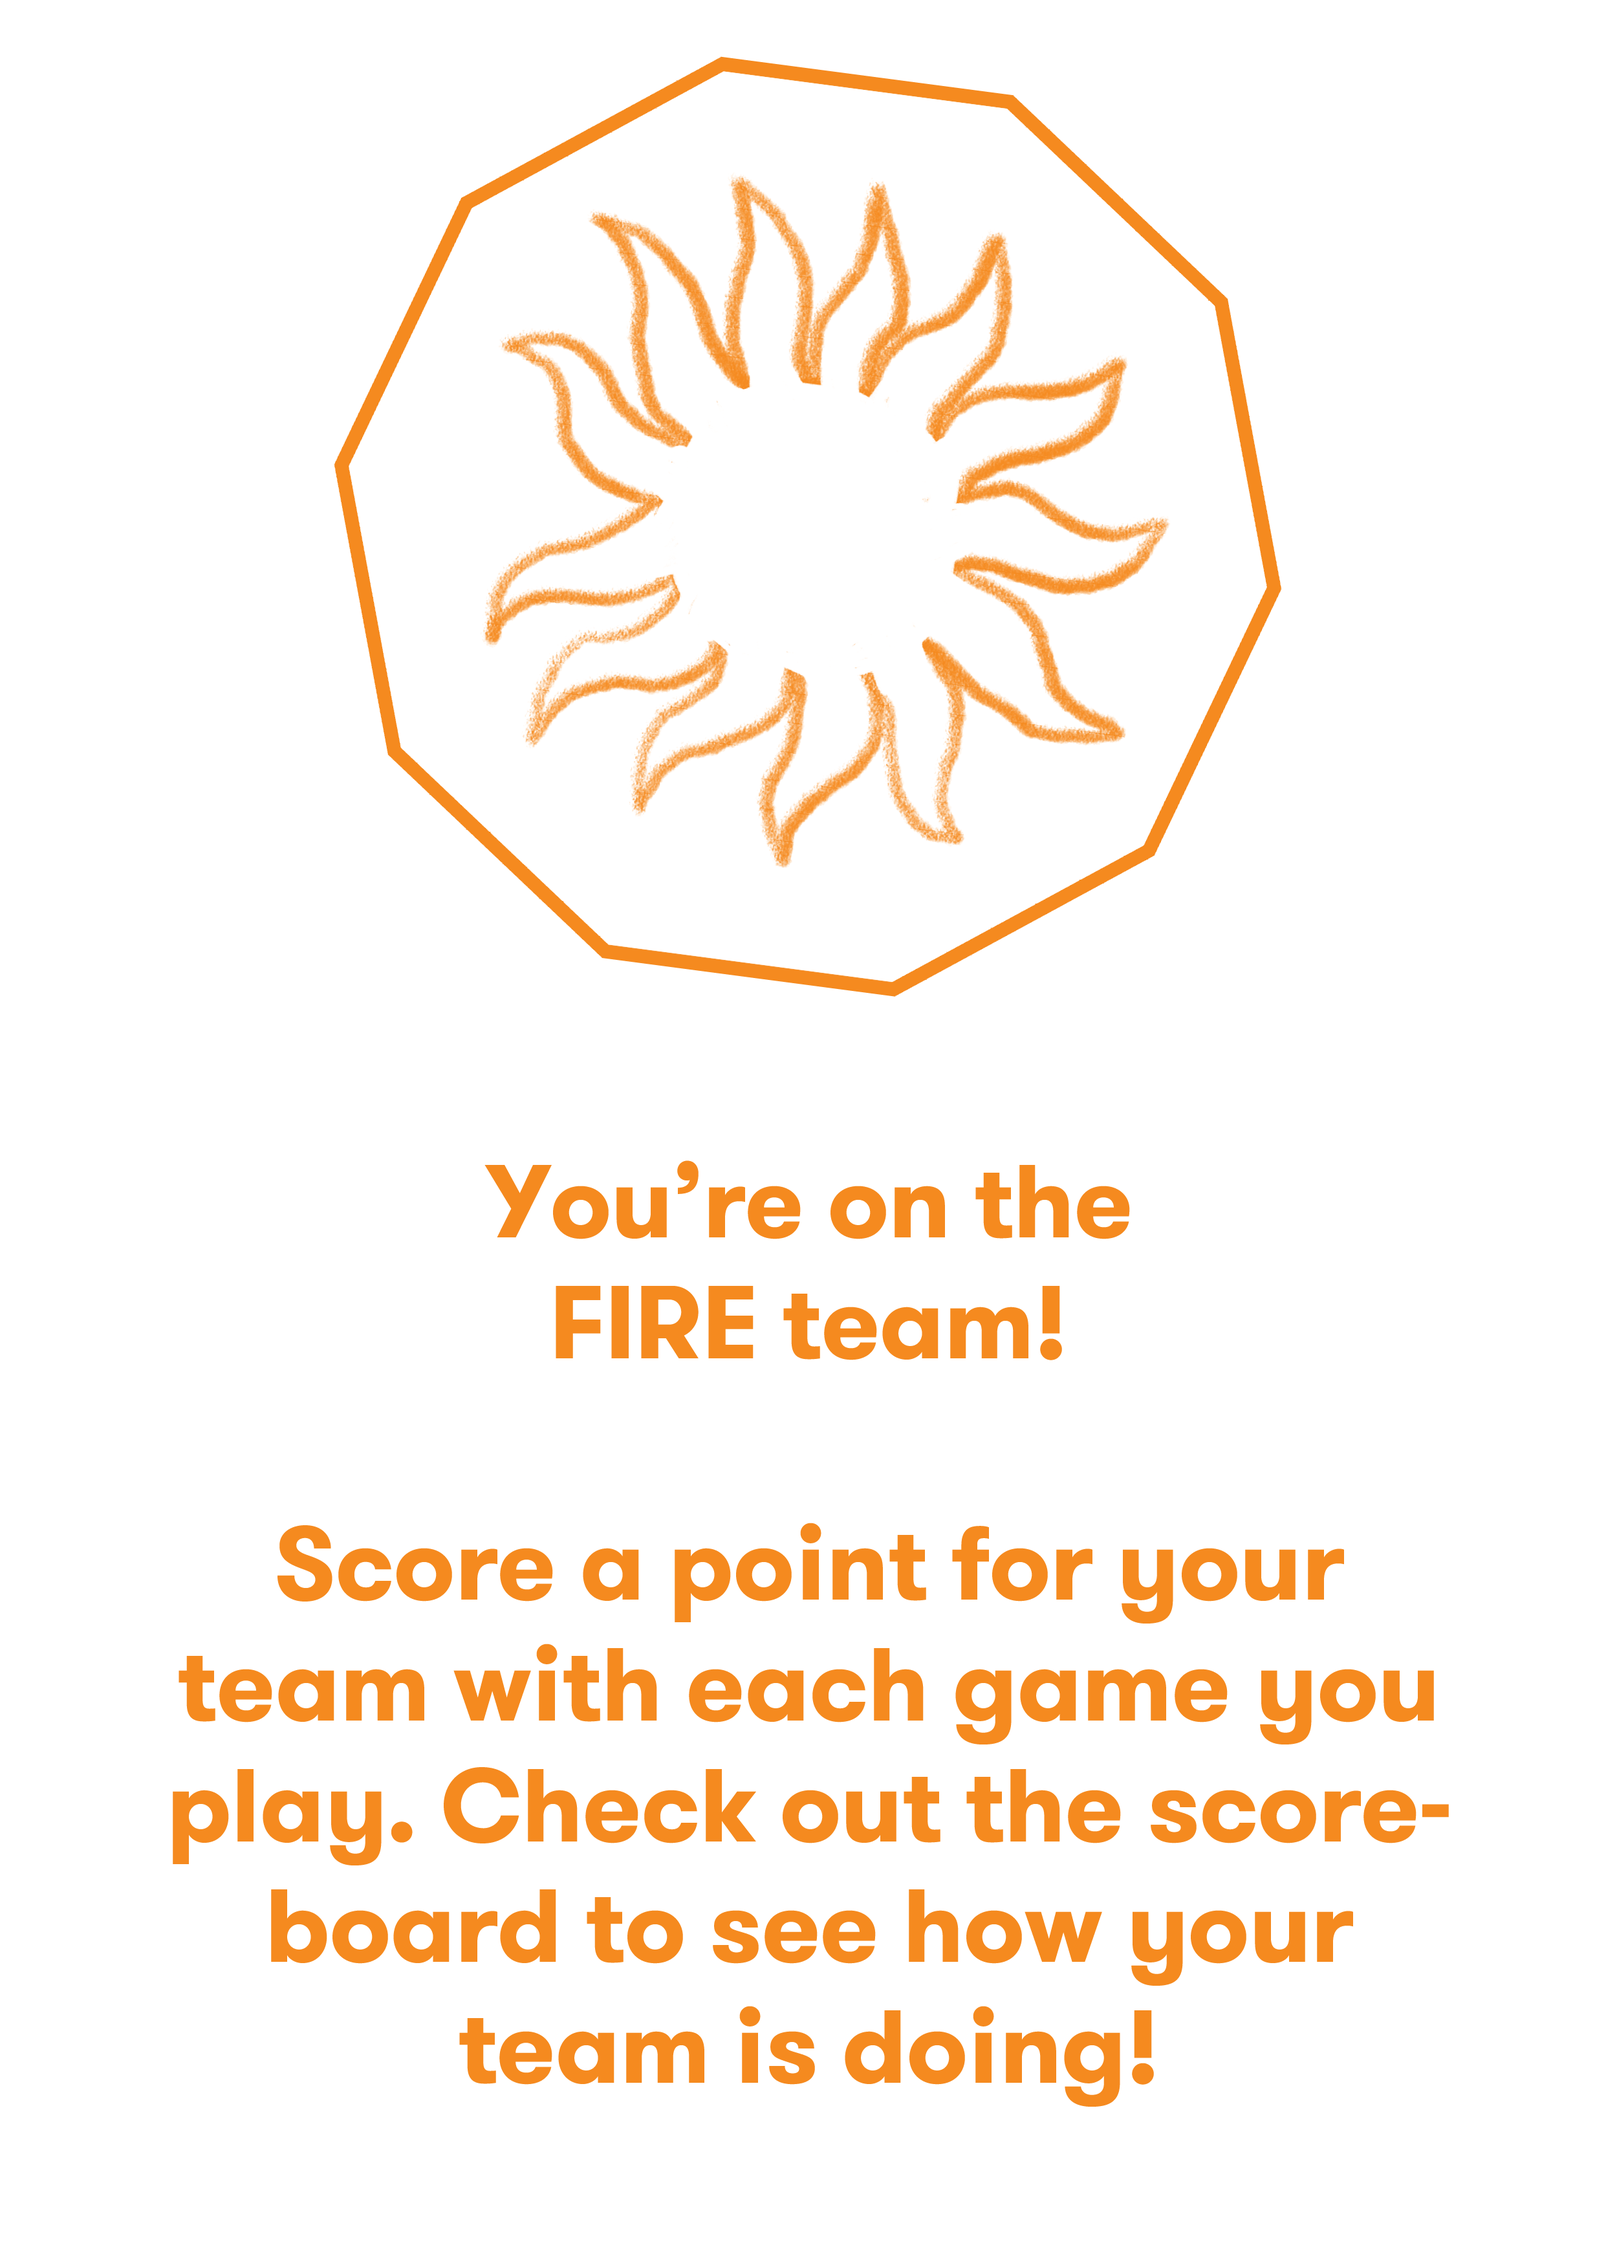
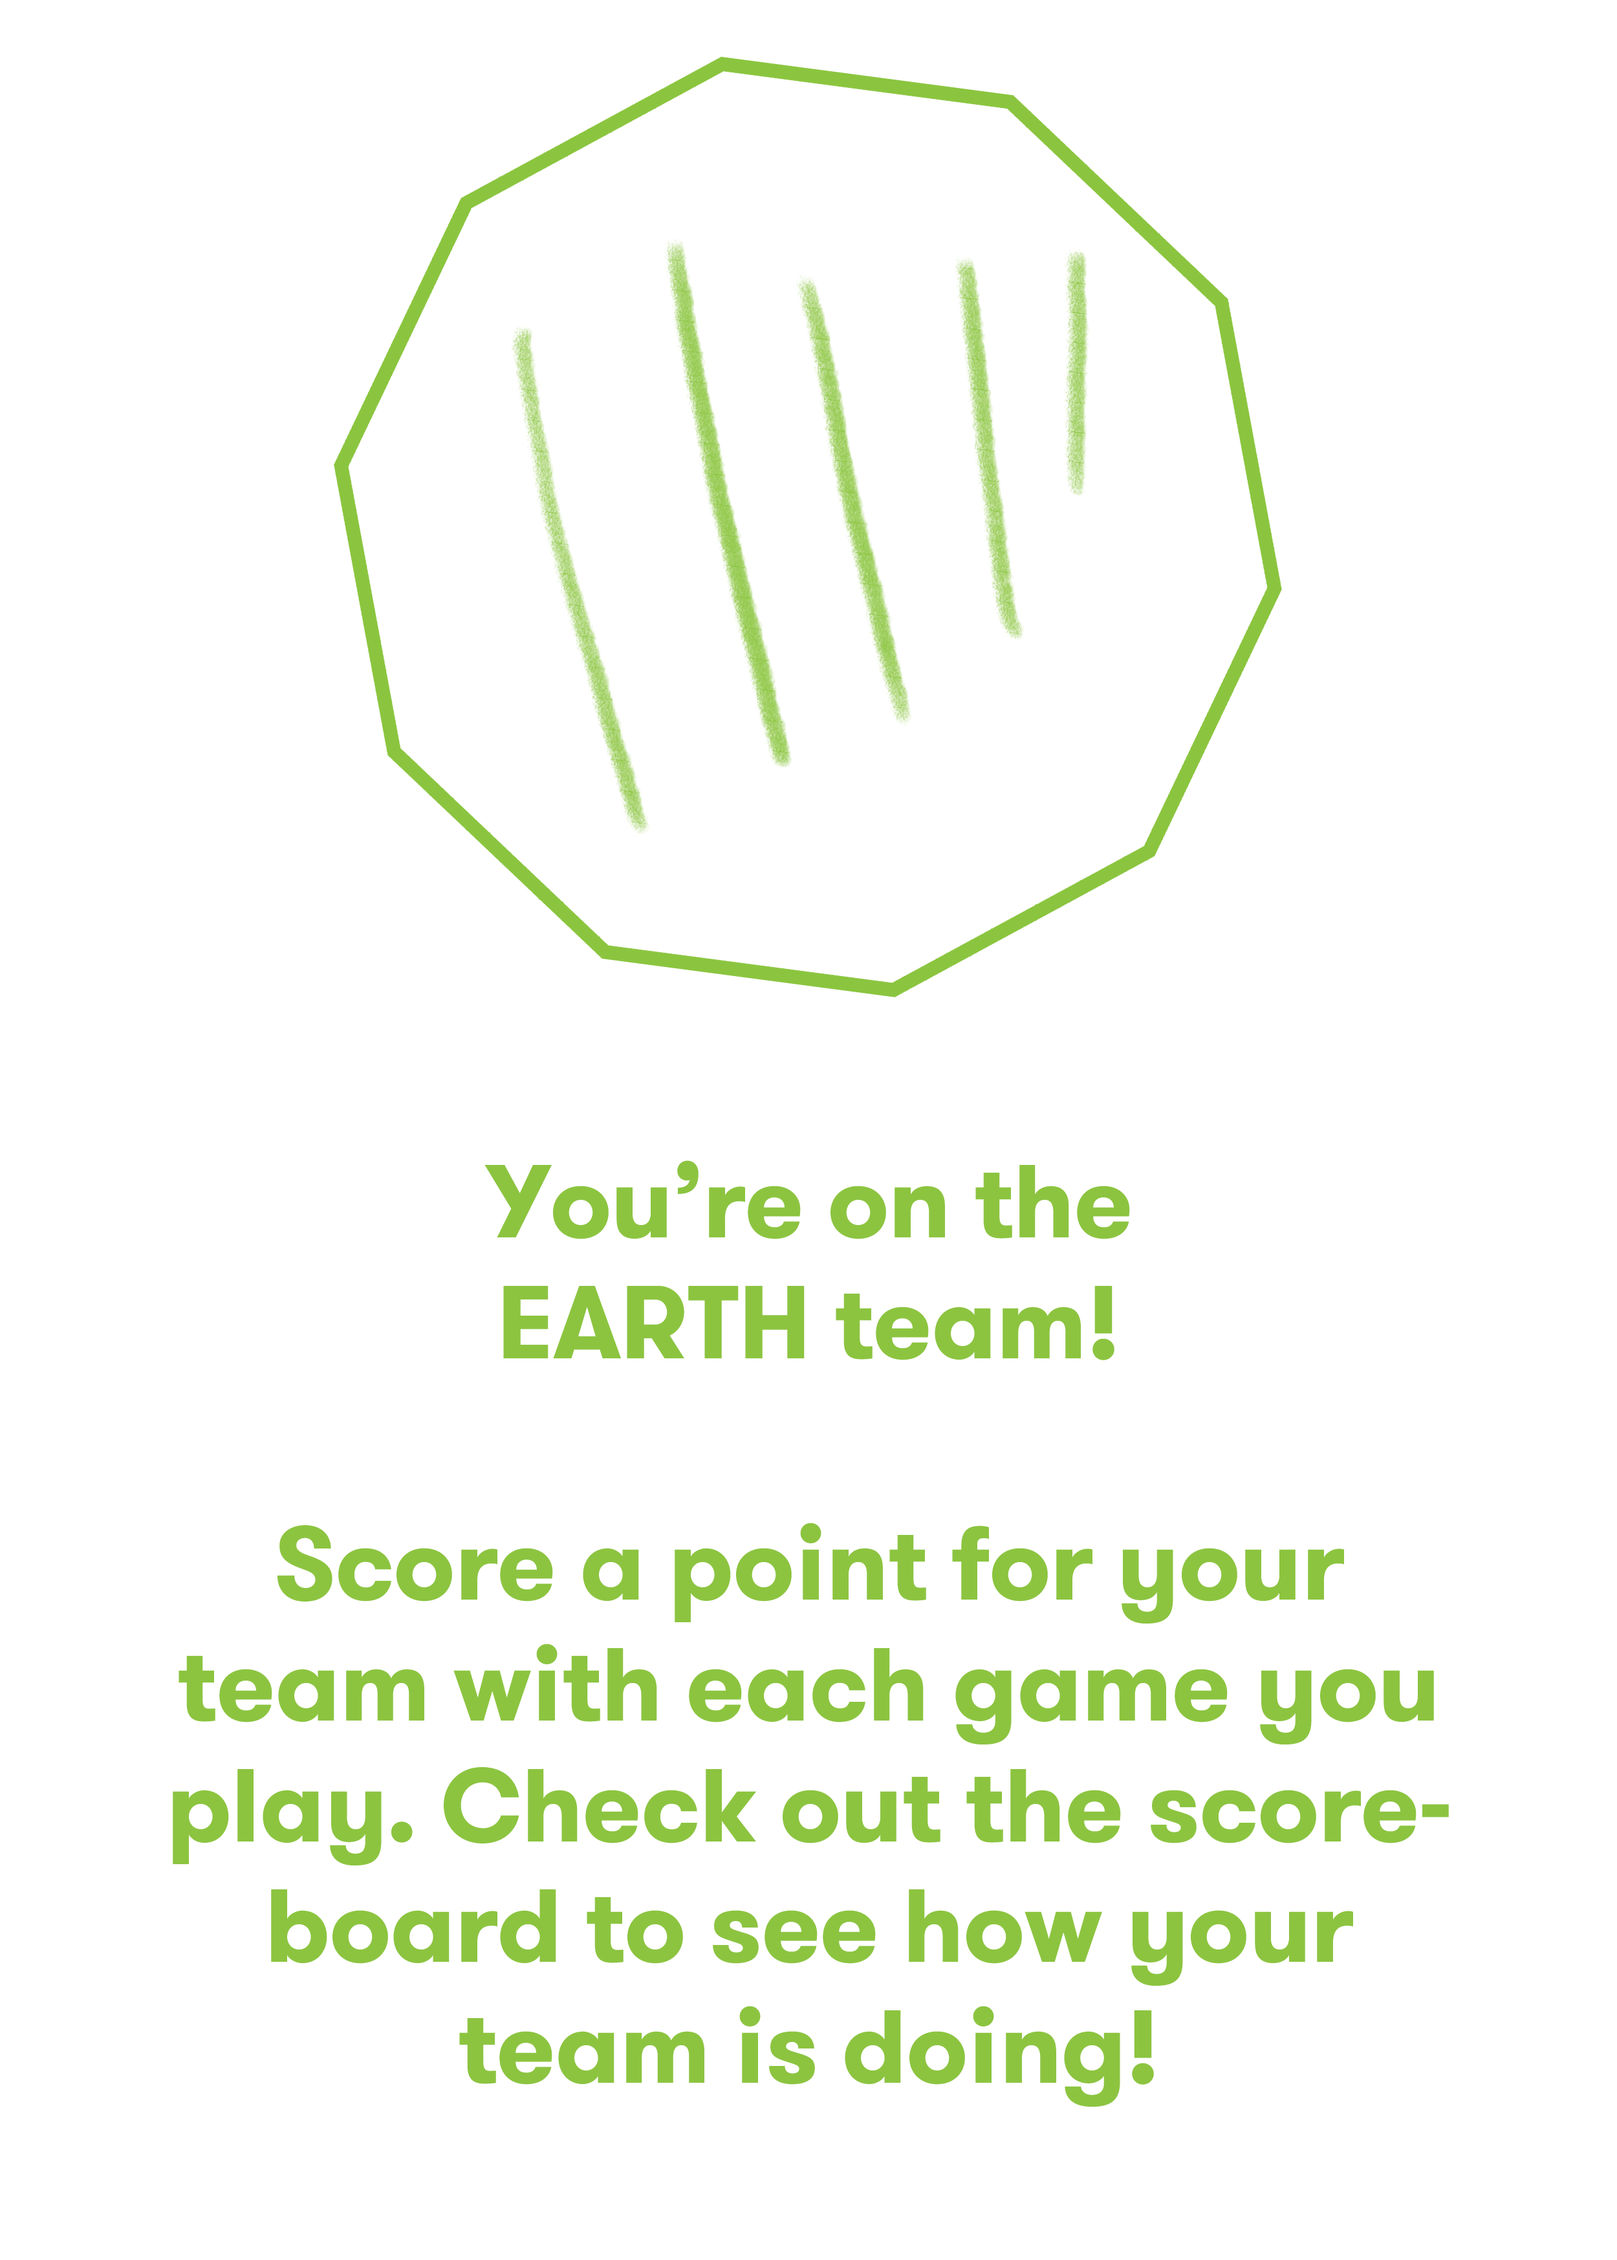
Fixed Team Assignment problems

diff --git a/views/js/index.js b/views/js/index.js
@@ -489,6 +489,9 @@ function resizeImages(){
 
       // Homescreen
       $('.avatar-image').css('height', newHeight-20+'px');
+
+      //Team Singup Page
+      $('.confirmation-sign-up .container').css('height', $(window).height()+'px');
 }
 
 function resizeAvatar(){
@@ -523,6 +526,7 @@ $(window).load(function(){
       //shareMenu.onLoadCreateFileIfItDoesNotExsist();
 
       generateAvatar();
+      updateStatsAndScores();
 
       // Message for Window Loaded
       resizeImages();
@@ -891,7 +895,7 @@ var signUp = {
                     userName: $('input.username').val(),
                     email: $('input.email-address').val().toLowerCase(),
                     avatar: $('.regenerate-avatar-image').attr('data-avatar-id')+'.png', // This could be an object... with key values that are descriptive.. head, body ect... might be overkill
-                    team: 1,
+                    team: $('.confirmation-sign-up .container').attr('data-team-id'),
                     //tasksPlayed: 'Array',
                     //maybe WaitTime:
 
@@ -916,13 +920,45 @@ var signUp = {
           // Slide up Main menu / Home
 
      },
+     setAndWriteTeamInfo(teamID){
+        // Add image to 
+        var teamContainer = $('.confirmation-sign-up .container');
+        teamContainer.attr('data-team-id',teamID);
+        teamContainer.css('background-image' , 'url(assets/images/team/'+teamID+'.png)');
+        teamContainer.css('background-position' , 'center center');
+        teamContainer.css('background-size' , 'contain');
+        teamContainer.css('background-repeat' , 'no-repeat');
+
+        // HomeScreen
+        $('.stats .top .team-id').html('<img style="height:30px;margin-top:-8px;margin-bottom:4px;" src="assets/images/teamicons/'+teamID+'.png">')
+
+        var teamText = '';
+        if(teamID == 1){
+          teamText = 'Water<br>Team';
+        } else if(teamID == 2) {
+          teamText = 'Air<br>Team';
+        } else if(teamID == 3) {
+          teamText = 'Earth<br>Team';
+        } else if(teamID == 4) {
+          teamText = 'Fire<br>Team';
+        }
+
+        $('.stats .bottom .team-id').html(teamText)
+
+
+
+     },
      checkTeamsAndSetTeam:function(){
-      $.get("/get-team", function(data){
-           console.log(data);
-           if(data.isEmpty()){
-              $()
-           }
-      });
+      $.ajax({
+        type: "GET",
+        url: "get-team",
+        dataType: 'json'
+
+      }).done(function(data) {
+        //console.log('saved'); 
+        signUp.setAndWriteTeamInfo(data._id);
+    });
+     
      },
      preFillInUserName:function(){
       $('.form-control.username').val(generateUsername());
@@ -946,6 +982,7 @@ var signUp = {
                     case $('#carousel-sign-up .item.email-sign-up').hasClass('active'):
                          signUp.databaseHasEmail();
                          signUp.preFillInUserName();
+                         signUp.checkTeamsAndSetTeam();
                          if(!signUp.usernameTextFieldIsFilled){
                               signUp.disableContinueButton();
                          }
@@ -1648,13 +1685,48 @@ writeSocialMediaLinks:function(){
     $('.menu-share .container #email').attr('href' , emailHref);
     $('.menu-share .container #save-button').attr('href' , permalinkSave);
     $('.menu-share .container #save-button').attr('download' , getUser.userName);
+
+    $('.menu-share .container #save-button-instagram').attr('href' , permalinkSave);
+    $('.menu-share .container #save-button-instagram').attr('download' , getUser.userName);
     console.log('SOCIALK MEDIA')
     }
   },
 
 }
 
+function updateStatsAndScores(){
+  var getUser = store.get('user');
+  if(getUser){
+    // Team ID 
+    var teamID = getUser.team;
+    signUp.setAndWriteTeamInfo(teamID);
 
+    // My Score
+    var myScore = getUser.score;
+    updateMyScore(myScore);
+
+    // Locations Visited 
+    var locationsVisited = getUser.locationsVisited.length;
+    updateLocationsVisited(locationsVisited);
+
+    //Team score....
+    //var locationsVisited = getUser.locationsVisited.length;
+    //updateLocationsVisited(locationsVisited);
+
+
+
+
+
+  }
+}
+function updateLocationsVisited(numberOfLocations){
+    $('.stats .top .locations-visited').html(numberOfLocations+'/6');
+    //$('.stats .bottom .my-score').html(teamText);
+}
+function updateMyScore(myScore){
+    $('.stats .top .my-score').html(myScore);
+    //$('.stats .bottom .my-score').html(teamText);
+}
 
 function generateUsername(){
 //way of being, things, action

diff --git a/database.js b/database.js
@@ -176,6 +176,11 @@ database.getSortedUsers = function(limitNum, sortBy, callback){
 
 }
 
+Array.prototype.hasMin = function(attrib) {
+    return this.reduce(function(prev, curr){ 
+        return prev[attrib] < curr[attrib] ? prev : curr; 
+    });
+ }
 
 database.checkTeamsAndSetTeam = function(callback){
   this.Users.aggregate(
@@ -185,7 +190,11 @@ database.checkTeamsAndSetTeam = function(callback){
     function (err, results) {
       if (err) return handleError(err);
       console.log(results);
-      callback(results);
+
+      var temp = results.hasMin('total');
+      console.log(temp);
+      return callback(null, temp);
+      //callback(JSON.stringify(results));
     });
 }
 

diff --git a/app.js b/app.js
@@ -200,6 +200,7 @@ app.get('/database-view', function(req, res, next) {
 
 app.get('/get-team', function(req, res, next) {
     database.checkTeamsAndSetTeam(function(err, response) {
+        console.log(response);
         if (err) {
             return res.status(422).json({
                 error: err.message
